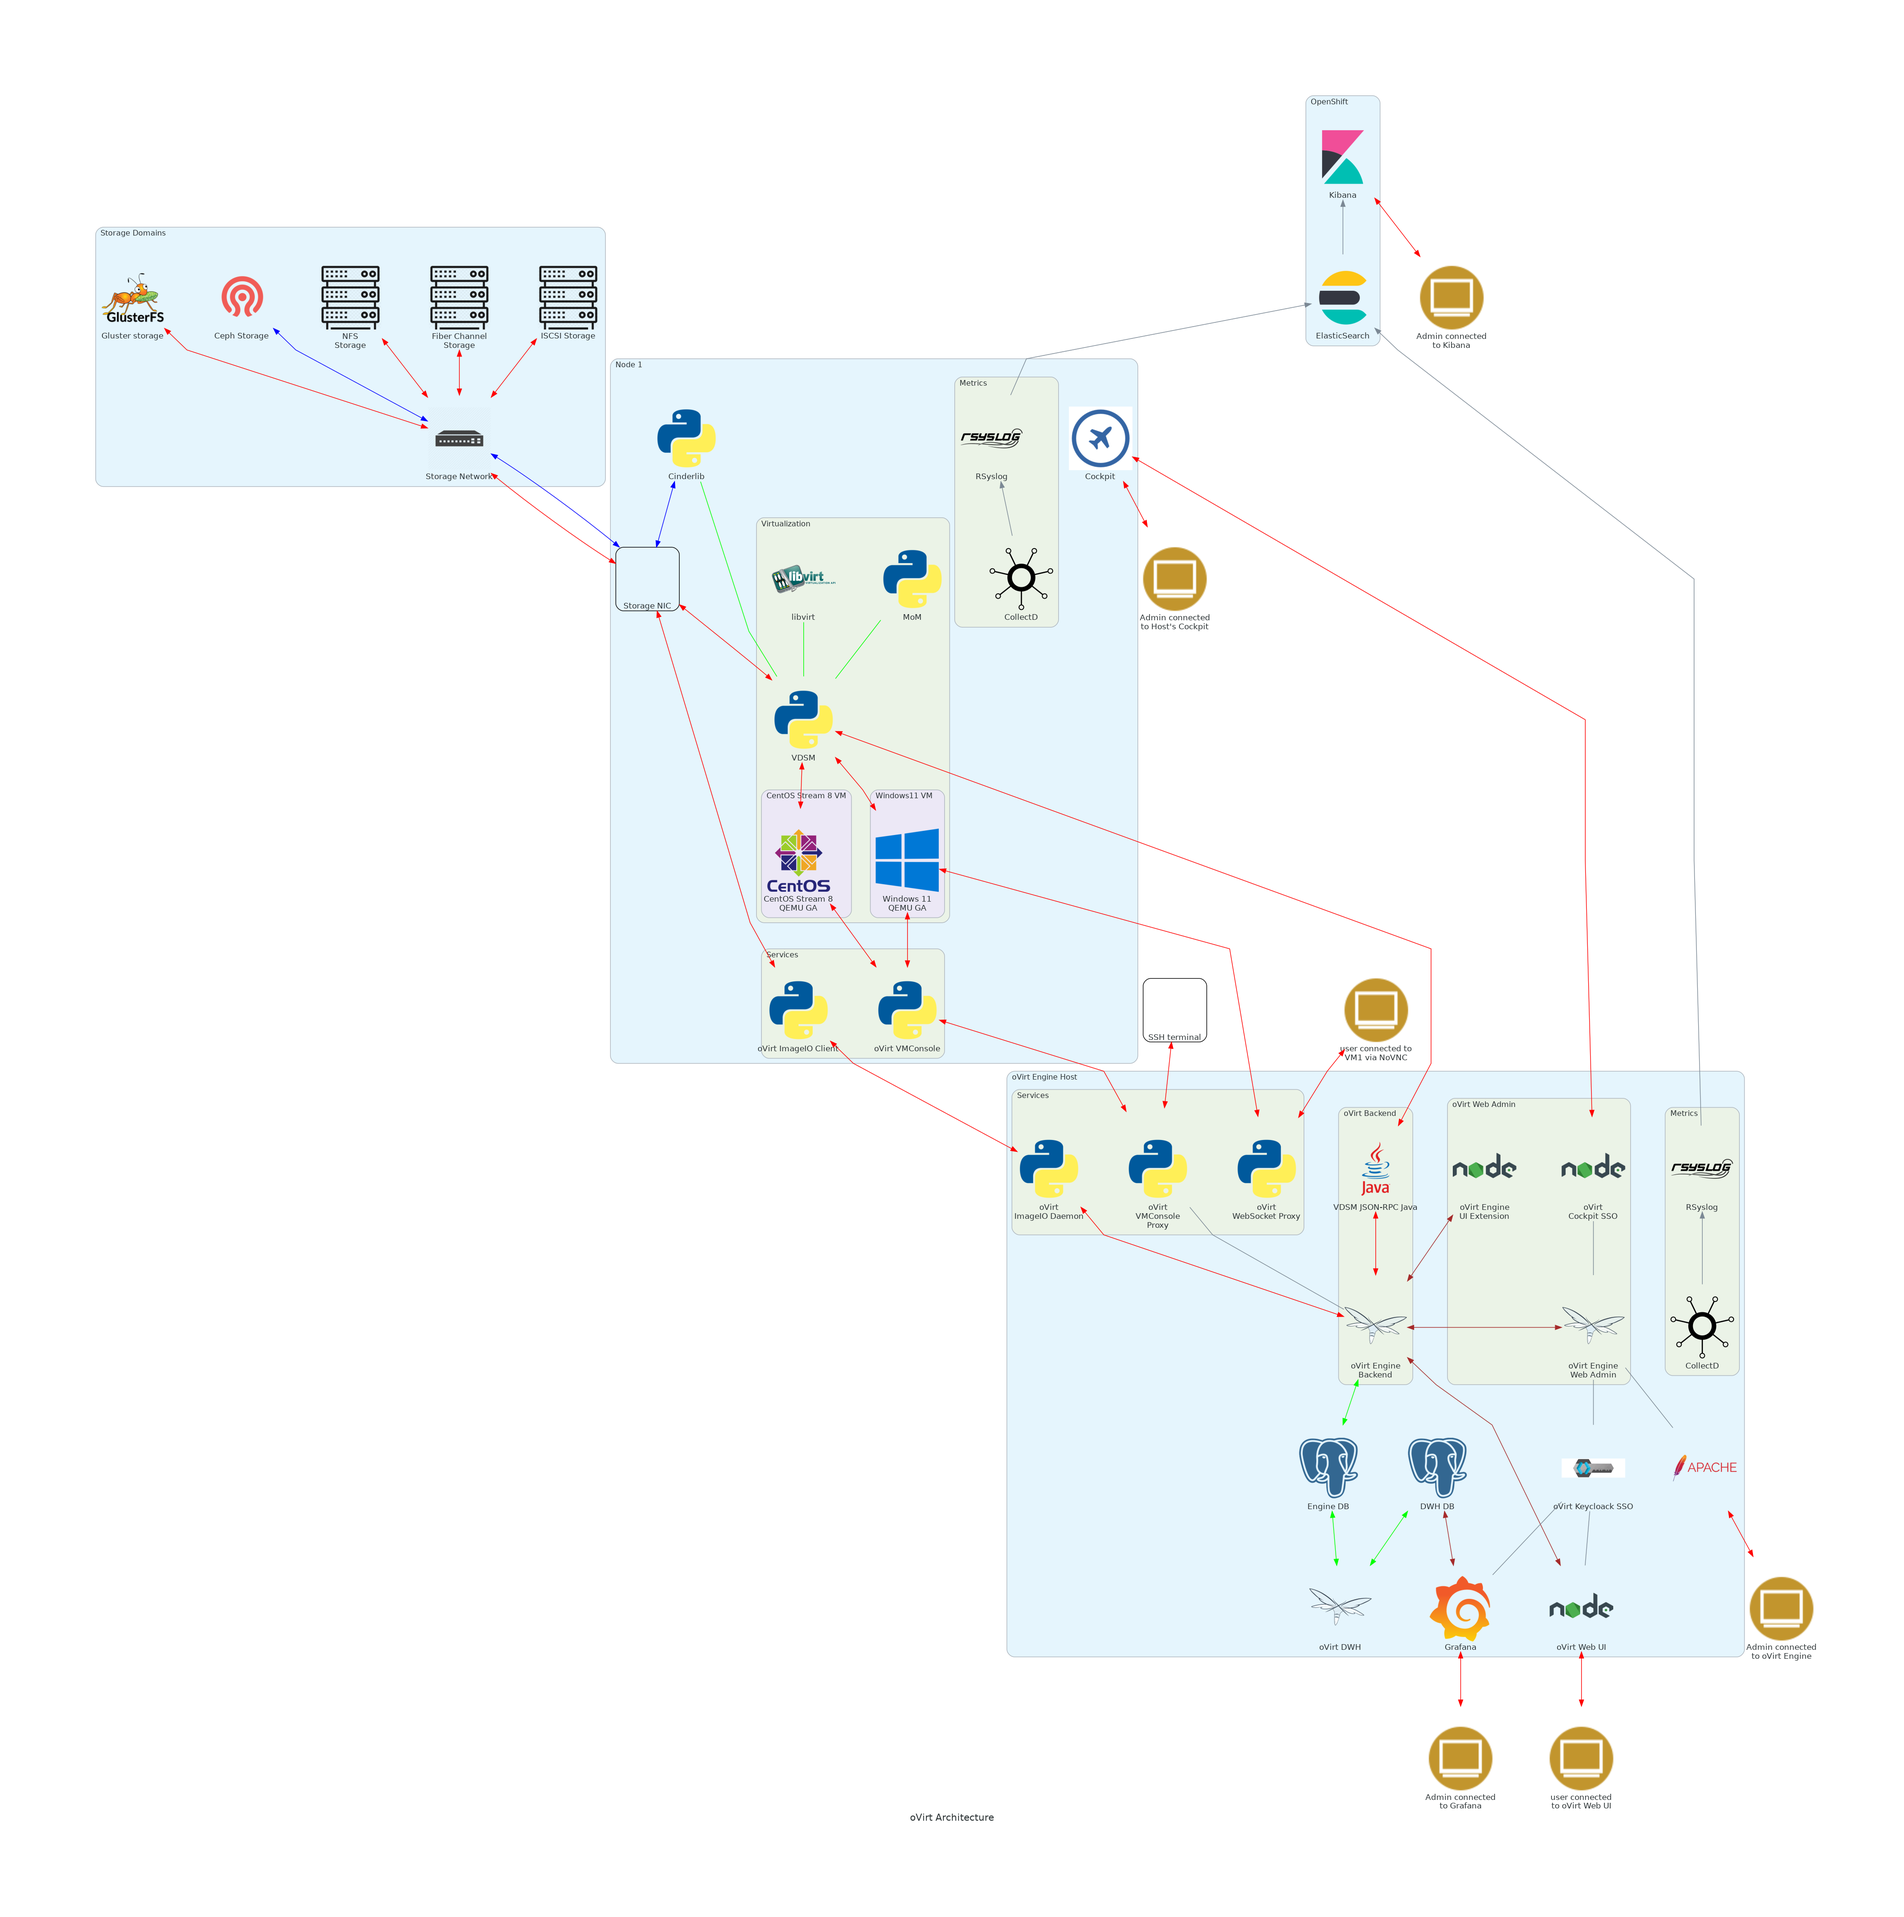
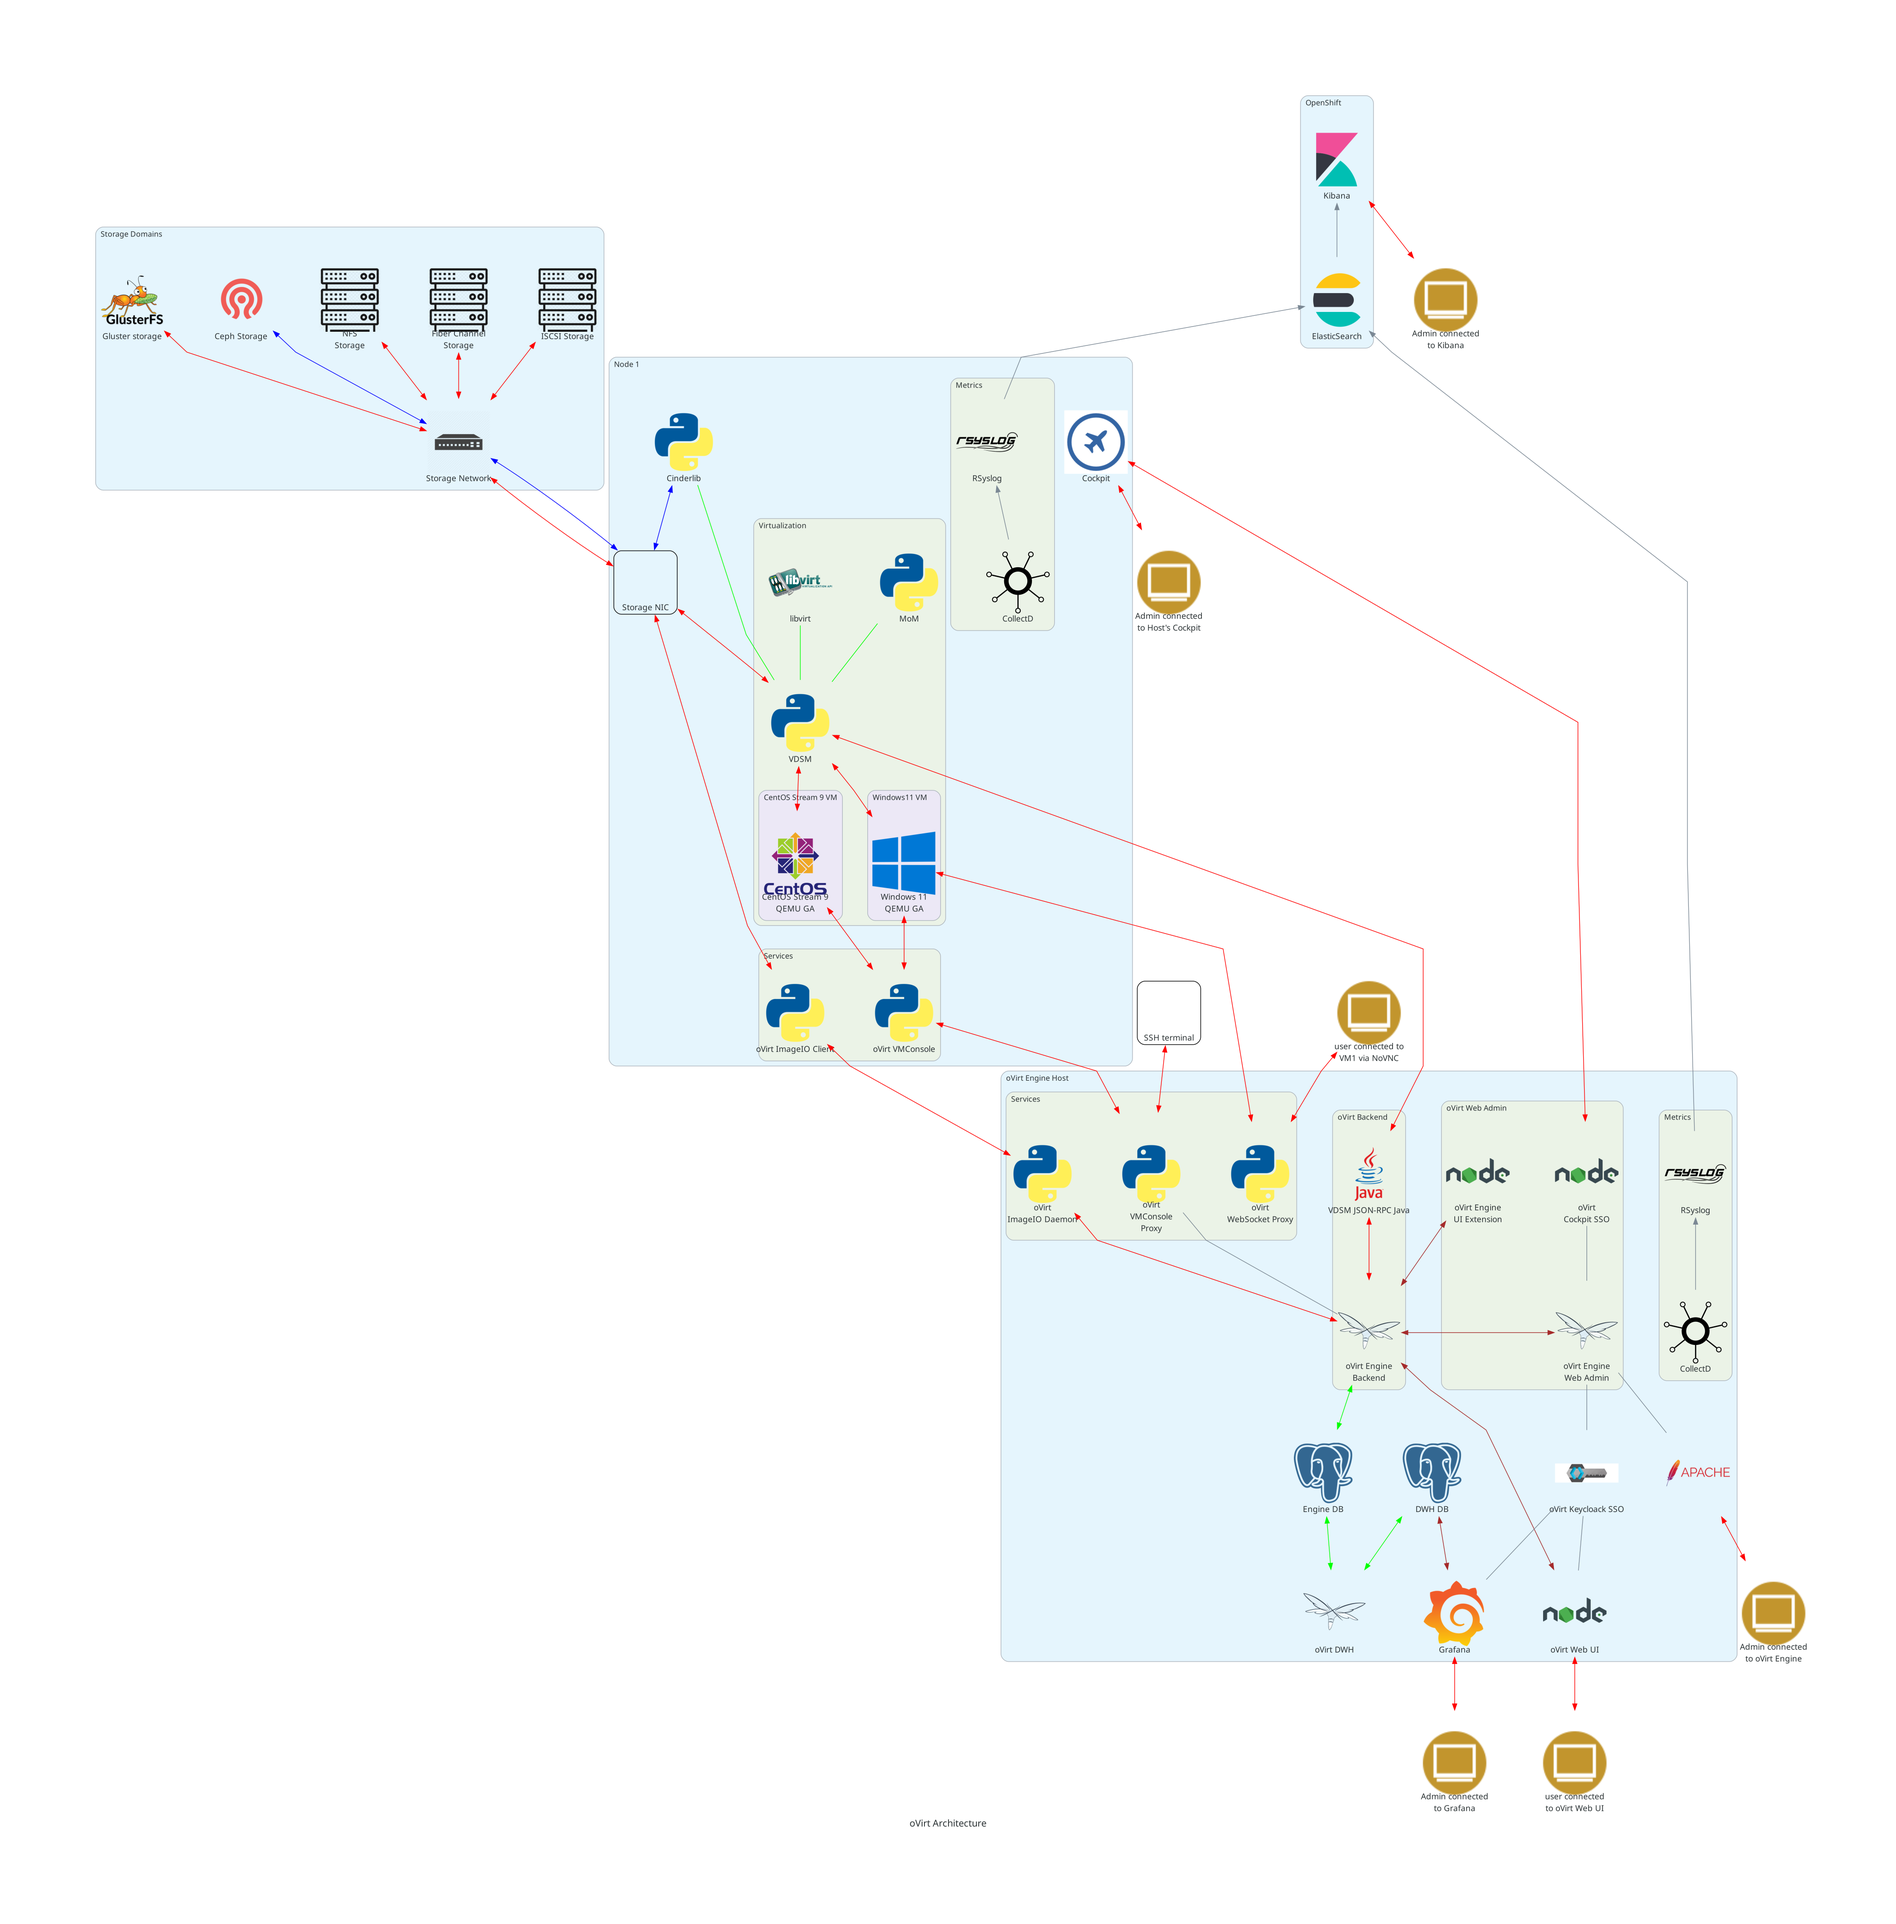
Drop centos stream 8 as it reached EOL
Dropping references to CentOS Stream 8 as it reached EOL.

diff --git a/source/images/diagrams/ovirt-architecture.py b/source/images/diagrams/ovirt-architecture.py
@@ -54,8 +54,8 @@ with Diagram(
         with Cluster("Virtualization"):
             with Cluster("Windows11 VM"):
                 vm1_1 = Windows("Windows 11\nQEMU GA")
-            with Cluster("CentOS Stream 8 VM"):
-                vm2_1 = Centos("CentOS Stream 8\nQEMU GA")
+            with Cluster("CentOS Stream 9 VM"):
+                vm2_1 = Centos("CentOS Stream 9\nQEMU GA")
             vdsm1 = Python("VDSM")
             mom1 = Python("MoM")
             libvirt1 = Custom("libvirt", LOGO.format(product="libvirt"))

diff --git a/source/develop/developer-guide/migrating_to_github.md b/source/develop/developer-guide/migrating_to_github.md
@@ -99,7 +99,7 @@ As last step we need to turn on automation.
 
 - Go to `https://github.com/oVirt/<your_project/actions/new`
 - Click on `set up a workflow yourself`
-- Write your `check-patch` CI flow, here is an example which builds rpms on both CentOS Stream 8 and CentOS Stream 9:
+- Write your `check-patch` CI flow, here is an example which builds rpms on CentOS Stream 9:
 
 ```yaml
 name: Check patch
@@ -111,58 +111,6 @@ on:
     branches: [master]
 
 jobs:
-  build-el8:
-
-    runs-on: ubuntu-latest
-    container:
-      image: quay.io/centos/centos:stream8
-
-    steps:
-    - name: prepare env
-      run: |
-           mkdir -p ${PWD}/tmp.repos/BUILD
-           yum install -y --setopt=tsflags=nodocs autoconf automake createrepo_c gettext-devel git systemd make git rpm-build
-    - uses: actions/checkout@v2
-      with:
-        fetch-depth: 0
-
-    - name: autoreconf
-      run: autoreconf -ivf
-
-    - name: configure
-      run: ./configure
-
-    - name: run distcheck
-      run: make -j distcheck
-
-    - name: Build RPM
-      run: rpmbuild -D "_topdir ${PWD}/tmp.repos" -D "release_suffix .$(date -u +%Y%m%d%H%M%S).git$(git rev-parse --short HEAD)" -ta ovirt-release*.tar.gz
-
-    - name: Collect artifacts
-      run: |
-          mkdir -p exported-artifacts
-          find tmp.repos -iname \*rpm -exec mv "{}" exported-artifacts/ \;
-          mv ./*tar.gz exported-artifacts/
-
-    - name: Create DNF repository
-      run: createrepo_c exported-artifacts/
-
-    - name: test install
-      run: |
-          yum install -y exported-artifacts/ovirt-release-master-4*noarch.rpm
-          yum module enable -y javapackages-tools:201801
-          yum module enable -y maven:3.5
-          yum module enable -y pki-deps:10.6
-          yum module enable -y postgresql:12
-          yum module enable -y mod_auth_openidc:2.3
-          yum --downloadonly install -y exported-artifacts/*noarch.rpm
-          yum --downloadonly install -y ovirt-engine ovirt-engine-setup-plugin-websocket-proxy
-    - name: Upload artifacts
-      uses: ovirt/upload-rpms-action@v2
-      with:
-        directory: test-artifacts
-
-
   build-el9:
 
     runs-on: ubuntu-latest

diff --git a/source/develop/release-management/process/making-a-release.md b/source/develop/release-management/process/making-a-release.md
@@ -71,31 +71,15 @@ and rebuilding with:
 # This builds a scratch (just a test) build for CentOS Stream 9 for oVirt 4.5
 cbs build --scratch virt9s-ovirt-45-el9s <your package .src.rpm>
 
-# This is for CentOS Stream 8:
-cbs build --scratch virt8s-ovirt-45-el8s <your package .src.rpm>
 
 # If the build goes through fine, you can do a real build
 # CentOS Stream 9:
 cbs build virt9s-ovirt-45-el9s <your package .src.rpm>
-
-# CentOS Stream 8:
-cbs build virt8s-ovirt-45-el8s <your package .src.rpm>
 ```
 
-Once the builds complete it will be tagged as a candidate to be released as `virt8s-ovirt-45-candidate` (for CentOS Stream 8) or `virt9s-ovirt-45-candidate` (for CentOS Stream 9).
+Once the builds complete it will be tagged as a candidate to be released as `virt9s-ovirt-45-candidate` (for CentOS Stream 9).
 
 In order to publish the build you need to tag it for testing:
-
-```bash
-# CentOS Stream 8
-cbs tag virt8s-ovirt-45-testing <your build without the trailing '.src.rpm'>
-
-# Example:
-cbs tag virt8s-ovirt-45-testing ovirt-hosted-engine-ha-2.4.10-1.el8
-```
-
-This will publish the build under the https://buildlogs.centos.org/centos/8-stream/virt/ repository.
-
 
 ```bash
 # CentOS Stream 9
@@ -111,17 +95,6 @@ This will publish the build on https://buildlogs.centos.org/centos/9-stream/virt
 ## Release phase
 
 Once the content in testing has been properly verified and considered good to be released for general availability, the release manager needs to tag the builds for release:
-
-```bash
-# CentOS Stream 8
-cbs tag virt8s-ovirt-45-release <build without the trailing '.src.rpm'>
-
-#example:
-cbs tag virt8s-ovirt-45-release ovirt-hosted-engine-ha-2.4.10-1.el8
-```
-
-This will publish the build on the http://mirror.centos.org/centos/8-stream/virt/ repository and to CentOS mirrors.
-
 
 ```bash
 # CentOS Stream 9

diff --git a/source/download/install_on_rhel.md b/source/download/install_on_rhel.md
@@ -17,7 +17,7 @@ subscription-manager repos --enable rhel-8-for-x86_64-baseos-rpms
 subscription-manager repos --enable rhel-8-for-x86_64-appstream-rpms
 subscription-manager repos --enable codeready-builder-for-rhel-8-x86_64-rpms
 
-rpm -i --justdb --nodeps --force "http://mirror.centos.org/centos/8-stream/BaseOS/$(rpm --eval '%_arch')/os/Packages/centos-stream-release-8.6-1.el8.noarch.rpm"
+rpm -i --justdb --nodeps --force "https://vault.centos.org/centos/8-stream/BaseOS/$(rpm --eval '%_arch')/os/Packages/centos-stream-release-8.6-1.el8.noarch.rpm"
 ```
 
 Specific to Rocky Linux only:
@@ -33,8 +33,7 @@ Common to RHEL 8.6 and derivatives:
 cat >/etc/yum.repos.d/CentOS-Stream-Extras.repo <<'EOF'
 [cs8-extras]
 name=CentOS Stream $releasever - Extras
-mirrorlist=http://mirrorlist.centos.org/?release=8-stream&arch=$basearch&repo=extras&infra=$infra
-#baseurl=http://mirror.centos.org/$contentdir/8-stream/extras/$basearch/os/
+baseurl=https://vault.centos.org/$contentdir/8-stream/extras/$basearch/os/
 gpgcheck=1
 enabled=1
 gpgkey=https://www.centos.org/keys/RPM-GPG-KEY-CentOS-Official
@@ -43,8 +42,7 @@ EOF
 cat >/etc/yum.repos.d/CentOS-Stream-Extras-common.repo <<'EOF'
 [cs8-extras-common]
 name=CentOS Stream $releasever - Extras common packages
-mirrorlist=http://mirrorlist.centos.org/?release=8-stream&arch=$basearch&repo=extras-extras-common
-#baseurl=http://mirror.centos.org/$contentdir/8-stream/extras/$basearch/extras-common/
+baseurl=https://vault.centos.org/$contentdir/8-stream/extras/$basearch/extras-common/
 gpgcheck=1
 enabled=1
 gpgkey=https://www.centos.org/keys/RPM-GPG-KEY-CentOS-SIG-Extras

diff --git a/source/develop/architecture/architecture.md b/source/develop/architecture/architecture.md
@@ -26,7 +26,7 @@ A standard oVirt deployment consists of three things, primarily:
 *   One or more storage nodes, which hold the images and ISOs corresponding to those VMs
 
 The nodes are Linux distributions with VDSM and libvirt installed, along with some extra packages to easily enable virtualization of networking and other system services.
-The supported Linux distributions to date are CentOS Stream 8 and derivatives. oVirt project also provides oVirt Node, which is basically a stripped-down CentOS Stream 8 distribution
+The supported Linux distributions to date are CentOS Stream 9 and derivatives. oVirt project also provides oVirt Node, which is basically a stripped-down CentOS Stream 9 distribution
 containing just enough components to allow virtualization.
 
 The storage nodes can use block or file storage, and can be local or remote, accessed via NFS. Storage technologies like Gluster are supported through the POSIXFS storage type.

diff --git a/source/community/index.md b/source/community/index.md
@@ -92,7 +92,7 @@ and open [oVirt Node issue trackers](https://github.com/oVirt/ovirt-node-ng-imag
 
 Once the tracker is open you can help monitoring progress of the security fix.
 Look at [existing security reports in oVirt Node](https://github.com/oVirt/ovirt-node-ng-image/issues?q=is%3Aissue+is%3Aopen+label%3Asecurity)
-and check corresponding package on [CentOS Stream 8 Koji](https://koji.mbox.centos.org/koji/packages) and [CentOS Stream 9 Koji](https://kojihub.stream.centos.org/koji/packages).
+and check corresponding package on [CentOS Stream 9 Koji](https://kojihub.stream.centos.org/koji/packages).
 If a fix for the CVE is available, update the traker issue accordingly.
 
 ## Participate in the oVirt infrastructure

diff --git a/source/download/index.md b/source/download/index.md
@@ -14,12 +14,11 @@ oVirt 4.5.5 is intended for production use and is available for the following pl
 
 Engine:
 - Red Hat Enterprise Linux 8 (or similar)
-- CentOS Stream 8
+- Red Hat Enterprise Linux 9 (or similar)
+- CentOS Stream 9
 
 Hosts:
 - Red Hat Enterprise Linux 8 (or similar)
-- oVirt Node based on CentOS Stream 8
-- CentOS Stream 8
 - Red Hat Enterprise Linux 9 (or similar)
 - oVirt Node based on CentOS Stream 9
 - CentOS Stream 9

diff --git a/source/download/alternate_downloads.md b/source/download/alternate_downloads.md
@@ -15,13 +15,10 @@ oVirt 4.5.5 is intended for production use and is available for the following pl
 Engine:
 - Red Hat Enterprise Linux 9 (or similar)
 - Red Hat Enterprise Linux 8 (or similar)
-- CentOS Stream 8
 - CentOS Stream 9
 
 Hosts:
 - Red Hat Enterprise Linux 8 (or similar)
-- CentOS Stream 8
-- oVirt Node based on CentOS Stream 8
 - Red Hat Enterprise Linux 9 (or similar)
 - CentOS Stream 9
 - oVirt Node based on CentOS Stream 9

diff --git a/source/develop/dev-process/install-nightly-snapshot.md b/source/develop/dev-process/install-nightly-snapshot.md
@@ -5,18 +5,7 @@ authors: sandrobonazzola
 
 # Install nightly oVirt master snapshot
 
-## CentOS Stream 8 / x86_64
-
-For CentOS Stream 8 / x86_64 you need to run:
-
-```
-dnf copr enable -y ovirt/ovirt-master-snapshot centos-stream-8
-dnf install -y ovirt-release-master
-```
-
 ## CentOS Stream 9
-
-Please note that this is still tech preview. Most development is done on CentOS Stream 8, for now.
 
 For CentOS Stream 9 you need to run:
 
